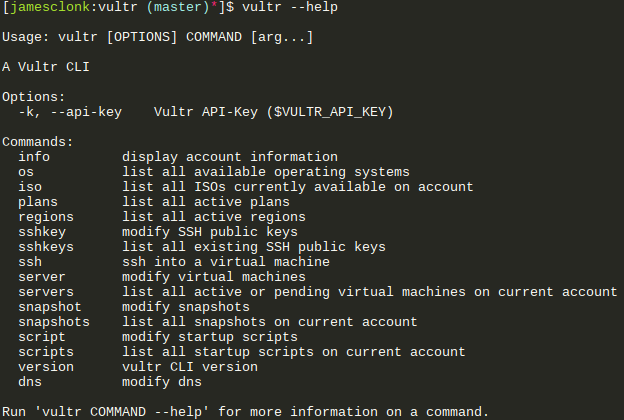
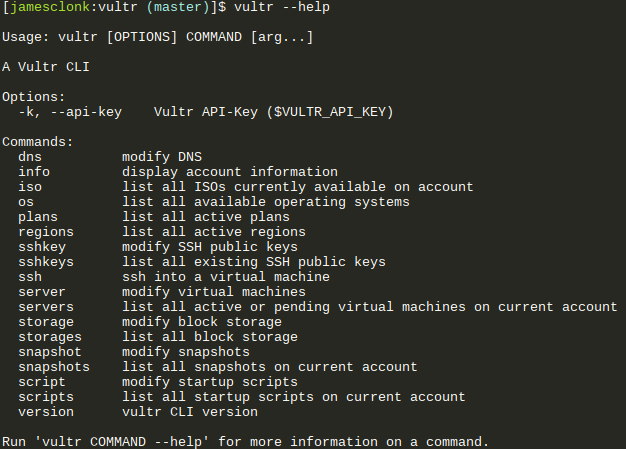
update screenshot

diff --git a/lib/block_storage_test.go b/lib/block_storage_test.go
@@ -1,0 +1,188 @@
+package lib
+
+import (
+	"net/http"
+	"testing"
+
+	"github.com/stretchr/testify/assert"
+)
+
+func Test_BlockStorage_GetBlockStorages_Error(t *testing.T) {
+	server, client := getTestServerAndClient(http.StatusNotAcceptable, `{error}`)
+	defer server.Close()
+
+	storages, err := client.GetBlockStorages()
+	assert.Nil(t, storages)
+	if assert.NotNil(t, err) {
+		assert.Equal(t, `{error}`, err.Error())
+	}
+}
+
+func Test_BlockStorage_GetBlockStorages_NoKeys(t *testing.T) {
+	server, client := getTestServerAndClient(http.StatusOK, `[]`)
+	defer server.Close()
+
+	storages, err := client.GetBlockStorages()
+	if err != nil {
+		t.Error(err)
+	}
+	assert.Nil(t, storages)
+}
+
+func Test_BlockStorage_GetBlockStorages_OK(t *testing.T) {
+	server, client := getTestServerAndClient(http.StatusOK, `[
+{"SUBID":"1","label":"alpha","attached_to_SUBID":123,"size_gb":10,"status":"pending","date_created":"2011-11-11 11:11:11"},
+{"SUBID":"2","label":"beta","DCID":33,"size_gb":100,"cost_per_month":10,"date_created":"2014-12-31 13:34:56"}
+]`)
+	defer server.Close()
+
+	storages, err := client.GetBlockStorages()
+	if err != nil {
+		t.Error(err)
+	}
+	if assert.NotNil(t, storages) {
+		assert.Equal(t, 2, len(storages))
+		// storage could be in random order
+		for _, storage := range storages {
+			switch storage.ID {
+			case "1":
+				assert.Equal(t, "alpha", storage.Name)
+				assert.Equal(t, "2011-11-11 11:11:11", storage.Created)
+				assert.Equal(t, "123", storage.AttachedTo)
+				assert.Equal(t, 10, storage.SizeGB)
+				assert.Equal(t, "pending", storage.Status)
+			case "2":
+				assert.Equal(t, "beta", storage.Name)
+				assert.Equal(t, "2014-12-31 13:34:56", storage.Created)
+				assert.Equal(t, 33, storage.RegionID)
+				assert.Equal(t, 100, storage.SizeGB)
+				assert.Equal(t, "10", storage.Cost)
+			default:
+				t.Error("Unknown SUBID")
+			}
+		}
+	}
+}
+
+func Test_BlockStorage_CreateBlockStorage_Error(t *testing.T) {
+	server, client := getTestServerAndClient(http.StatusNotAcceptable, `{error}`)
+	defer server.Close()
+
+	storage, err := client.CreateBlockStorage("delta", 33, 150)
+	assert.Equal(t, BlockStorage{}, storage)
+	if assert.NotNil(t, err) {
+		assert.Equal(t, `{error}`, err.Error())
+	}
+}
+
+func Test_BlockStorage_CreateBlockStorage_NoKey(t *testing.T) {
+	server, client := getTestServerAndClient(http.StatusOK, `[]`)
+	defer server.Close()
+
+	storage, err := client.CreateBlockStorage("delta", 33, 150)
+	if err != nil {
+		t.Error(err)
+	}
+	assert.Equal(t, "", storage.ID)
+}
+
+func Test_BlockStorage_CreateBlockStorage_OK(t *testing.T) {
+	server, client := getTestServerAndClient(http.StatusOK, `{"SUBID":"5671234"}`)
+	defer server.Close()
+
+	storage, err := client.CreateBlockStorage("delta", 33, 150)
+	if err != nil {
+		t.Error(err)
+	}
+	if assert.NotNil(t, storage) {
+		assert.Equal(t, "5671234", storage.ID)
+		assert.Equal(t, "delta", storage.Name)
+		assert.Equal(t, 33, storage.RegionID)
+		assert.Equal(t, 150, storage.SizeGB)
+	}
+}
+
+func Test_BlockStorage_AttachBlockStorage_Error(t *testing.T) {
+	server, client := getTestServerAndClient(http.StatusNotAcceptable, `{error}`)
+	defer server.Close()
+
+	err := client.AttachBlockStorage("555", "666")
+	if assert.NotNil(t, err) {
+		assert.Equal(t, `{error}`, err.Error())
+	}
+}
+
+func Test_BlockStorage_ResizeBlockStorage_Error(t *testing.T) {
+	server, client := getTestServerAndClient(http.StatusNotAcceptable, `{error}`)
+	defer server.Close()
+
+	err := client.ResizeBlockStorage("123", 150)
+	if assert.NotNil(t, err) {
+		assert.Equal(t, `{error}`, err.Error())
+	}
+}
+
+func Test_BlockStorage_ResizeBlockStorage_OK(t *testing.T) {
+	server, client := getTestServerAndClient(http.StatusOK, `{no-response?!}`)
+	defer server.Close()
+
+	assert.Nil(t, client.ResizeBlockStorage("123", 150))
+}
+
+func Test_BlockStorage_LabelBlockStorage_Error(t *testing.T) {
+	server, client := getTestServerAndClient(http.StatusNotAcceptable, `{error}`)
+	defer server.Close()
+
+	err := client.LabelBlockStorage("123", "test")
+	if assert.NotNil(t, err) {
+		assert.Equal(t, `{error}`, err.Error())
+	}
+}
+
+func Test_BlockStorage_LabelBlockStorage_OK(t *testing.T) {
+	server, client := getTestServerAndClient(http.StatusOK, `{no-response?!}`)
+	defer server.Close()
+
+	assert.Nil(t, client.LabelBlockStorage("123", "test"))
+}
+
+func Test_BlockStorage_AttachBlockStorage_OK(t *testing.T) {
+	server, client := getTestServerAndClient(http.StatusOK, `{no-response?!}`)
+	defer server.Close()
+
+	assert.Nil(t, client.AttachBlockStorage("555", "666"))
+}
+
+func Test_BlockStorage_DetachBlockStorage_Error(t *testing.T) {
+	server, client := getTestServerAndClient(http.StatusNotAcceptable, `{error}`)
+	defer server.Close()
+
+	err := client.DetachBlockStorage("id-1")
+	if assert.NotNil(t, err) {
+		assert.Equal(t, `{error}`, err.Error())
+	}
+}
+
+func Test_BlockStorage_DetachBlockStorage_OK(t *testing.T) {
+	server, client := getTestServerAndClient(http.StatusOK, `{no-response?!}`)
+	defer server.Close()
+
+	assert.Nil(t, client.DetachBlockStorage("id-1"))
+}
+
+func Test_BlockStorage_DeleteBlockStorage_Error(t *testing.T) {
+	server, client := getTestServerAndClient(http.StatusNotAcceptable, `{error}`)
+	defer server.Close()
+
+	err := client.DeleteBlockStorage("id-1")
+	if assert.NotNil(t, err) {
+		assert.Equal(t, `{error}`, err.Error())
+	}
+}
+
+func Test_BlockStorage_DeleteBlockStorage_OK(t *testing.T) {
+	server, client := getTestServerAndClient(http.StatusOK, `{no-response?!}`)
+	defer server.Close()
+
+	assert.Nil(t, client.DeleteBlockStorage("id-1"))
+}
